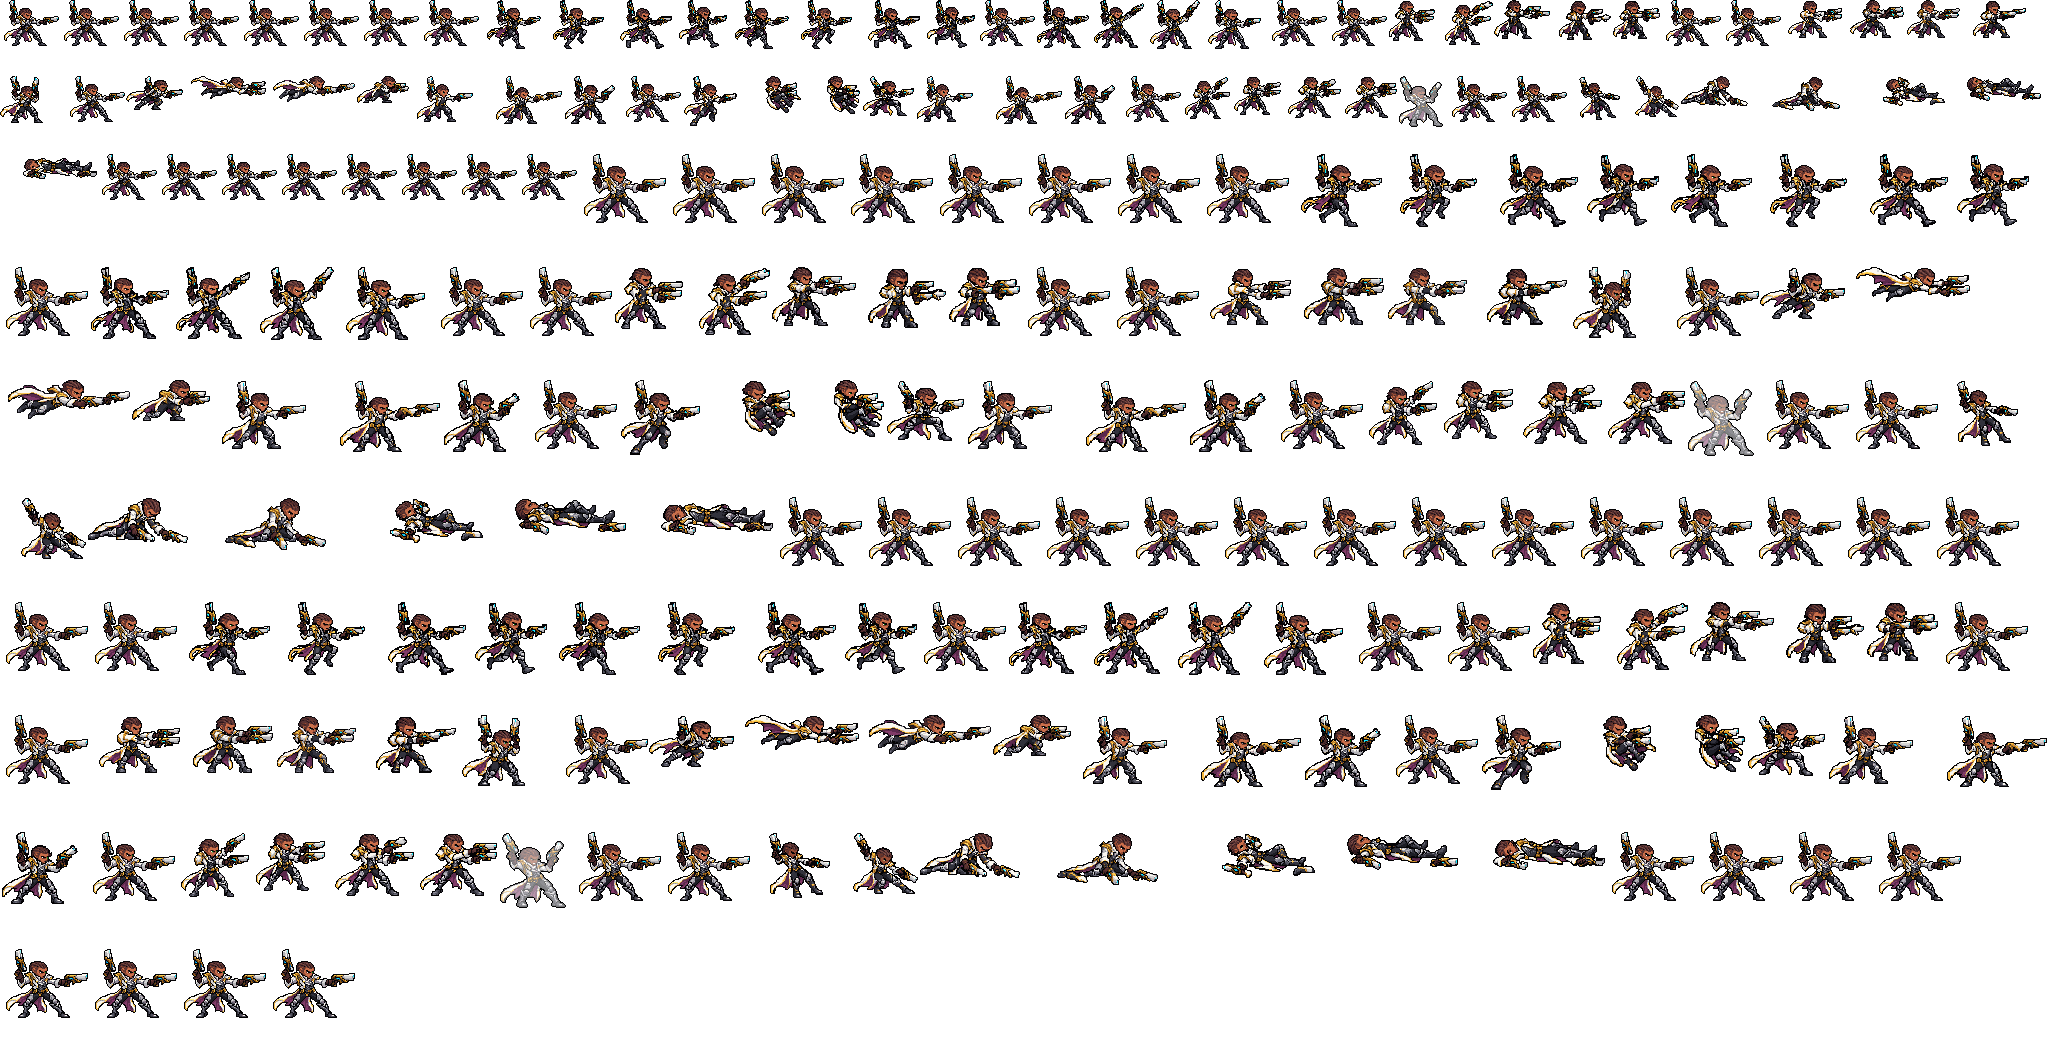
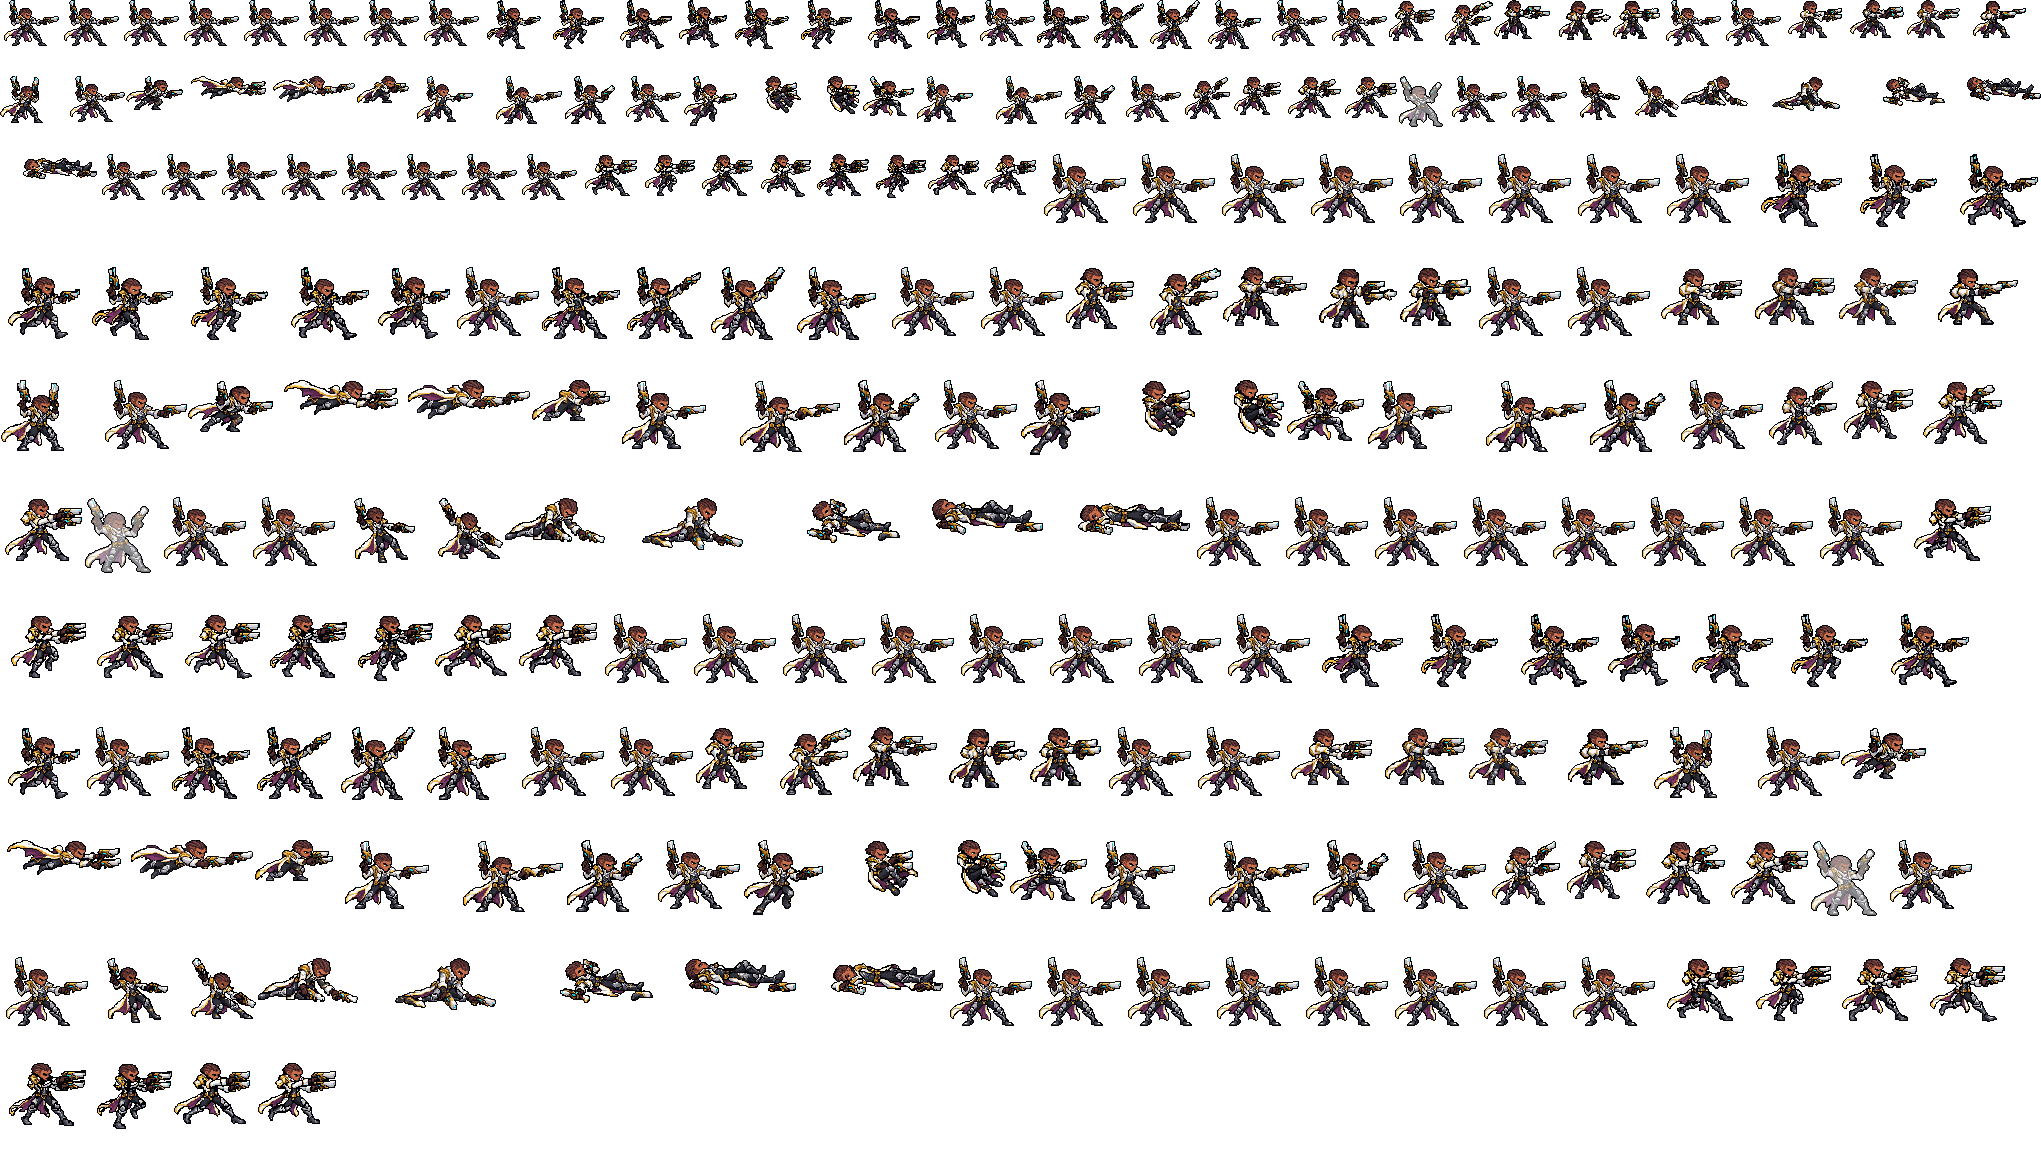
Lucian r_run: Codex's walk while The Culling fires, read onto his sheet (8 frames, the run's timing)
Codex's delivery (assets/source/lucian/hd/runshoot, from tools/art/pack_lucian_runshoot.py) read back by
tools/art/casts_lucian_runshoot.py the way casts_lucian_hd.py reads his actions: zoom from his head (6.95-7.4 px a
square, every head fit good), squares in the design's palette, box on the pose guide's (kept as guide_<k>.png), every
head in one column. rig_lucian_hd.py adds r_run (the run's 117 ms) to the export; ppu_restyle (1.5), ppu_hd and
hero_reels after it: every existing tag's frames identical to before (orig and 1.5 strips byte-identical, sheet frames
compared one by one), r_run / hd_r_run / lo_r_run new. Both barrels 12-25 game px over the pivot, the tips ~28 ahead:
the R bullets' -18000 leaves between them. Nothing plays r_run yet (the add-on swap comes next).

diff --git a/tools/art/casts_lucian_runshoot.py b/tools/art/casts_lucian_runshoot.py
@@ -1,0 +1,134 @@
+#!/usr/bin/env python3
+"""Lucian's walk while The Culling fires (`r_run`) from Codex's redraw (assets/source/lucian/hd/runshoot: the
+tools/art/pack_lucian_runshoot.py pack, delivered 2026-10-27), read onto the design's squares the way
+tools/art/casts_lucian_hd.py reads his other actions: the white keyed off, the zoom read off his head (the design's head
+slid over the frame at zooms 5-14 px a square), each square the design colour most of its pixels snap to, the box's
+middle and bottom on the pose guide's (the pasted run + ult frame the pack faded into the cell: soles 11.5 game px
+under the pivot), then every frame shifted sideways so its head stands in one column like his run.
+    python tools/art/casts_lucian_runshoot.py --measure    # the zoom of each sheet from the heads
+    python tools/art/casts_lucian_runshoot.py --review DIR # the 8 frames placed, at 3x, the design first
+"""
+import argparse
+import json
+import os
+import sys
+
+import numpy as np
+from PIL import Image
+
+HERE = os.path.dirname(os.path.abspath(__file__))
+sys.path.insert(0, HERE)
+import casts_lucian_hd as CS  # noqa: E402
+
+SRC = os.path.join(CS.HD, "runshoot")
+TAG = "r_run"
+# px of Codex's drawing a design square, a sheet (--measure, 2026-10-27)
+ZOOM = {"r_run_1": 6.95, "r_run_2": 7.4, "r_run_3": 7.17, "r_run_4": 7.02}
+
+
+def sheets():
+    with open(CS.lp(os.path.join(SRC, "sheets.json")), encoding="utf-8") as f:
+        return json.load(f)["sheets"]
+
+
+def guides():
+    """The pack's pose guides at the old 1x scale (what each cell held, faded): kept in SRC as guide_<k>.png the first
+    time (pack_lucian_runshoot pastes them from the sheet's current hd_run / hd_ult, which a later export changes)."""
+    paths = [os.path.join(SRC, f"guide_{k}.png") for k in range(1, 9)]
+    if not all(os.path.isfile(p) for p in paths):
+        import pack_lucian_runshoot as PK
+        pasted, _, _ = PK.guides(4, 3)
+        for p, (f, _) in zip(paths, pasted):
+            Image.fromarray(PK.as_old(f)).save(CS.lp(p))
+    return [np.asarray(Image.open(CS.lp(p)).convert("RGBA")) for p in paths]
+
+
+GUIDE = guides()
+
+
+def heads():
+    """{frame name: (zoom, error)} - every frame's head fitted (casts_lucian_hd.head_fit)."""
+    out = {}
+    for s in sheets():
+        a = np.asarray(Image.open(CS.lp(os.path.join(SRC, s["name"] + ".png"))).convert("RGBA"))
+        for k, m in CS.cells(s, CS.figure(a)):
+            z, err, _ = CS.head_fit(a, m)
+            out[f"{TAG}_{k}"] = (z, err)
+    return out
+
+
+def zoom_of(s, fits):
+    g = [fits[f"{TAG}_{k}"][0] for k in s["frames"] if fits[f"{TAG}_{k}"][1] <= CS.GOOD]
+    allg = [z for z, e in fits.values() if e <= CS.GOOD]
+    return round(float(np.mean(g)) if g else float(np.median(allg)), 2)
+
+
+def read_all():
+    if ZOOM:
+        zooms = ZOOM
+    else:
+        fits = heads()
+        zooms = {s["name"]: zoom_of(s, fits) for s in sheets()}
+    out = {}
+    for s in sheets():
+        a = np.asarray(Image.open(CS.lp(os.path.join(SRC, s["name"] + ".png"))).convert("RGBA"))
+        for k, m in CS.cells(s, CS.figure(a)):
+            ys, xs = np.nonzero(m)
+            gh, gw = ys.max() + 1 - ys.min(), xs.max() + 1 - xs.min()
+            z = zooms[s["name"]]
+            sq = CS.sample(a, m, round(gh / z), round(gw / z))
+            L, T, R, B = CS.old_box(GUIDE[k - 1])
+            out[f"{TAG}_{k}"] = (sq, (L + R) / 2 * CS.PPU, B * CS.PPU, z)
+    return out
+
+
+def placed():
+    """{"r_run_<k>": (picture, x, y of its top-left on the design's grid)}: casts_lucian_hd.placed()'s rule, the soles on
+    the ground, every head in one column (their mean)."""
+    import casts_draven_hd as CD
+    px = CD.shoes_mid(CS.D0)
+    out = {}
+    for n, (sq, mid, bottom, zoom) in read_all().items():
+        ys, xs = np.nonzero(sq[..., 3] > 0)
+        pic = sq[ys.min():ys.max() + 1, xs.min():xs.max() + 1]
+        x, y = int(round(px + mid - pic.shape[1] / 2)), min(int(round(CS.GROUND + bottom - pic.shape[0])),
+                                                            CS.GROUND - pic.shape[0])
+        out[n] = (pic, x, y)
+    col = {n: CS.head_place(out[n][0])[1] + out[n][1] for n in out}
+    mean = int(round(np.mean(list(col.values()))))
+    return {n: (pic, x + mean - col[n], y) for n, (pic, x, y) in out.items()}
+
+
+def main():
+    ap = argparse.ArgumentParser()
+    ap.add_argument("--review")
+    ap.add_argument("--measure", action="store_true")
+    a = ap.parse_args()
+    if a.measure:
+        fits = heads()
+        for n, (z, e) in sorted(fits.items(), key=lambda t: int(t[0].rsplit("_", 1)[1])):
+            print(n, "head zoom", round(z, 2), "err", round(e, 1), "GOOD" if e <= CS.GOOD else "")
+        print("ZOOM =", json.dumps({s["name"]: zoom_of(s, fits) for s in sheets()}))
+        return
+    fr = placed()
+    print("frames", len(fr))
+    if a.review:
+        os.makedirs(a.review, exist_ok=True)
+        names = sorted(fr, key=lambda n: int(n.rsplit("_", 1)[1]))
+        x0 = min(min(fr[n][1] for n in names), 0) - 2
+        x1 = max(max(fr[n][1] + fr[n][0].shape[1] for n in names), CS.D0.shape[1]) + 2
+        y0 = min(min(fr[n][2] for n in names), 0) - 2
+        y1 = CS.GROUND + 2
+        Z, W, H = 3, x1 - x0, y1 - y0
+        tiles = [("design", (CS.D0, 0, 0))] + [(n, fr[n]) for n in names]
+        can = Image.new("RGB", (len(tiles) * (W * Z + 4), H * Z), (40, 40, 40))
+        for i, (n, (pic, x, y)) in enumerate(tiles):
+            tile = Image.new("RGBA", (W, H), (150, 165, 150, 255))
+            tile.alpha_composite(Image.fromarray(pic), (x - x0, y - y0))
+            can.paste(tile.convert("RGB").resize((W * Z, H * Z), Image.NEAREST), (i * (W * Z + 4), 0))
+        can.save(os.path.join(a.review, "placed_r_run.png"))
+        print("written", a.review)
+
+
+if __name__ == "__main__":
+    main()

diff --git a/tools/art/rig_lucian_hd.py b/tools/art/rig_lucian_hd.py
@@ -115,7 +115,13 @@ def frames(rig):
                 fr[0] = R.flash(rig.finish(fr[0]))      # (the struck frame flashes, as every rig's)
         out[tag] = list(zip(fr, [m for _, m in sheet[tag]]))
     out["idle"] = list(out["idle_base"])
-    return {t: out[t] for t in sheet if t in out}
+    # his walk while The Culling fires (tools/art/casts_lucian_runshoot.py; an add-on plays it for `run` while
+    # league_lucian_r_ch is on): the run's timing
+    import casts_lucian_runshoot as RS
+    walk = RS.placed()
+    runs = [m for _, m in sheet["run"]]
+    out["r_run"] = [(on_grid(rig, *walk[f"r_run_{k + 1}"]), runs[k % len(runs)]) for k in range(len(walk))]
+    return {**{t: out[t] for t in sheet if t in out}, "r_run": out["r_run"]}
 
 
 def main():

diff --git a/assets/source/lucian/hd/runshoot/HANDOFF.md b/assets/source/lucian/hd/runshoot/HANDOFF.md
@@ -1,0 +1,42 @@
+# 卢锡安移动施放圣枪洗礼：重画交接
+
+## 交付内容
+
+本轮重画了 `r_run` 的 8 帧，分为四张 1536×1024 的左右双格原图：
+
+- r_run_1.png：第 1、2 帧。
+- r_run_2.png：第 3、4 帧。
+- r_run_3.png：第 5、6 帧。
+- r_run_4.png：第 7、8 帧，采用修正后的 raw/r_run_4-03.png。
+- raw/：四张初绘和两张第 7、8 帧修正原图，共六张。主目录动作图均与选中的原始生成图逐字节相同。
+- generation-prompts.txt、generation-prompts-repair.txt、generation-prompts-repair-03.txt：全部实际提示词。
+- sheets.json：输入包原始清单；每帧 117ms 不变。
+- validation.json：尺寸、原图匹配、颜色、背景角点、粗边界和 SHA256 检查。
+- comparison-preview.png：模板与新图对照，供检查。
+- runshoot-preview.gif：按 1–8 帧排列的循环预览，供检查。
+
+所有人物绘制与两次修正均使用内置 image_gen。每张使用本次素材包中的定稿、模板、同号跑步帧、R 姿势和调色板。为适配五张参考图的工具上限，同号两张跑步参考只做了未缩放的左右并排参考拼图；没有用代码绘制人物。
+
+## 本轮动作检查
+
+- 八帧均为每只手各握一把枪，两把枪一高一低、水平朝画面右边；没有保留肩旁竖举的枪。
+- 腰带、胯部、黑色长裤和金边白色长衣摆连续完整，没有照模板的硬拼接缺口绘制。
+- 具有跨步、支撑抬膝、后脚回收等姿态差异；上半身保持双枪向前，衣摆向后。
+- 没有枪口火焰、子弹、光束、烟、速度线、地面或模板标记。
+- 初绘 r_run_4 第 7 帧枪口越过 x768 分格约两像素。修正 02 将手臂收回过多，已否决；修正 03 保留伸臂，只微调前枪管。选中图的中线 x768 在枪械高度范围内没有人物像素，原枪口跨格问题已消除。
+
+## 实测与尚未通过的精确规格
+
+- 四张均为 1536×1024，原图一致性 4/4 通过；主目录 PNG 未经过缩放、裁剪、改色或重排。
+- 选用文档允许的白底路线，但生成器仍带入很浅的背景色差/纹理，四角严格 #FFFFFF 检查为 0/4，不能称为纯白或硬透明合格图。
+- 四张均含调色板外颜色，严格调色板检查为 0/4；统一 7px 网格也尚未逐像素证明。
+- 头高精确 20 格、跨张比例完全相同、脚底精确落在 y924 及中心点对齐尚未验收；仍有尺寸与位置漂移。粗边界不等同于头部/脚底测量。
+- 后半周期的近远腿遮挡、连续播放时的半圈换腿和起伏仍需在最终读回后逐帧对照原 run 验证，不能仅凭不同姿态认定完全通过。
+
+因此这是动作原画交接包，主要动作结构已重画，尚非全部精确像素规格通过的可直接安装资产。
+
+## 预览和后续范围
+
+对照图按比例缩小整张图；GIF 只为诊断提取单格、缩小展示，没有改变交付原图。GIF 使用 110/120ms 表示接近原始 117ms 的节奏，全循环 940ms，对应源清单 936ms；不能用 GIF 替代源帧或时长数据。
+
+没有执行素材包中面向 Claude 的脚本调用、运行时附加包、佛耶戈帧表、整合或游戏安装步骤，没有修改现有仓库或游戏文件。后续应读取主目录 PNG/对应 raw，而不是预览，先处理精确规格再进入运行时验收。
